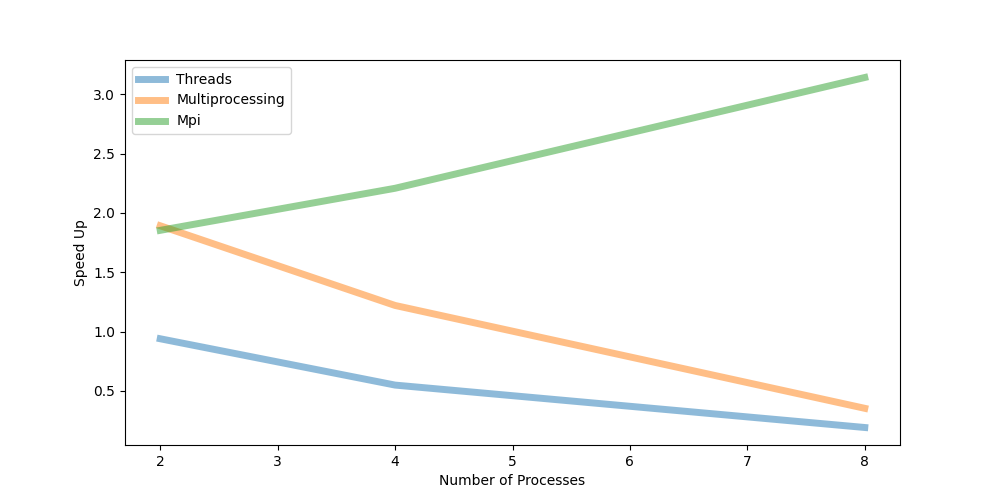
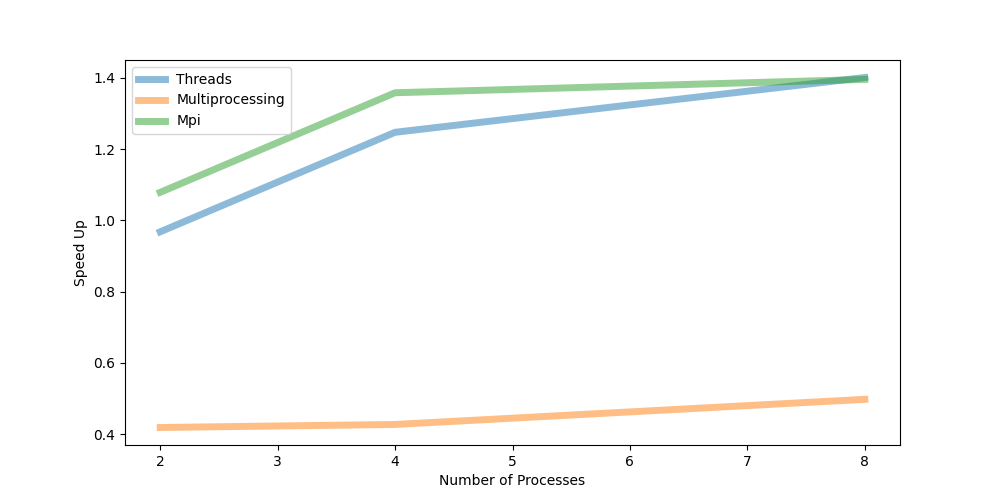
Se agregaron las graficas

diff --git a/pruebas.py b/pruebas.py
@@ -72,46 +72,46 @@ def choose_strategy(args, parser):
 
 
 def main():
-    parser = argparse.ArgumentParser(description="Script para ejecutar la aplicación")
-    args = parser.parse_args()
+    # parser = argparse.ArgumentParser(description="Script para ejecutar la aplicación")
+    # args = parser.parse_args()
 
-    for nombre_archivo in os.listdir('pruebas'):
-        os.remove(f"pruebas/{nombre_archivo}")
+    # for nombre_archivo in os.listdir('pruebas'):
+    #     os.remove(f"pruebas/{nombre_archivo}")
 
-    num_processes_list = [2, 4, 8, 10]
-    mpi_list = []
-    secuencial_list = []
-    paralelo_list = []
-    multiprocessing_list = []
+    # num_processes_list = [2, 4, 8, 10]
+    # mpi_list = []
+    # secuencial_list = []
+    # paralelo_list = []
+    # multiprocessing_list = []
 
-    for strategia in ["multiprocessing", "paralelo", "mpi"]:
-        args.estrategia = strategia
-        args.file1 = "E_coli.fna"
-        args.file2 = "Salmonella.fna"
-        args.output = "pruebas/pruebas"
-        args.outputNoFilter = "pruebas/pruebas_nf"
-        for num_processes in num_processes_list:
-            args.num_processes = num_processes
-            start_time = time.time()
-            choose_strategy(args, parser)
-            end_time = time.time()
-            if strategia == "mpi":
-                mpi_list.append(end_time - start_time)
-            elif strategia == "paralelo":
-                paralelo_list.append(end_time - start_time)
-            elif strategia == "multiprocessing":
-                multiprocessing_list.append(end_time - start_time)
+    # for strategia in ["multiprocessing", "paralelo", "mpi"]:
+    #     args.estrategia = strategia
+    #     args.file1 = "E_coli.fna"
+    #     args.file2 = "Salmonella.fna"
+    #     args.output = "pruebas/pruebas"
+    #     args.outputNoFilter = "pruebas/pruebas_nf"
+    #     for num_processes in num_processes_list:
+    #         args.num_processes = num_processes
+    #         start_time = time.time()
+    #         choose_strategy(args, parser)
+    #         end_time = time.time()
+    #         if strategia == "mpi":
+    #             mpi_list.append(end_time - start_time)
+    #         elif strategia == "paralelo":
+    #             paralelo_list.append(end_time - start_time)
+    #         elif strategia == "multiprocessing":
+    #             multiprocessing_list.append(end_time - start_time)
 
-    # Tiempo secuencial
-    args.estrategia = "secuencial"
-    args.file1 = "E_coli.fna"
-    args.file2 = "Salmonella.fna"
-    args.output = "pruebas/pruebas"
-    args.outputNoFilter = "pruebas/pruebas_nf"
-    start_time = time.time()
-    choose_strategy(args, parser)
-    end_time = time.time()
-    secuencial_list.append(end_time - start_time)
+    # # Tiempo secuencial
+    # args.estrategia = "secuencial"
+    # args.file1 = "E_coli.fna"
+    # args.file2 = "Salmonella.fna"
+    # args.output = "pruebas/pruebas"
+    # args.outputNoFilter = "pruebas/pruebas_nf"
+    # start_time = time.time()
+    # choose_strategy(args, parser)
+    # end_time = time.time()
+    # secuencial_list.append(end_time - start_time)
 
     # # Lee los archivos csv de una carpeta
 
@@ -161,6 +161,33 @@ def main():
     tiempo_hilos_t = data_hilos["total_time"]
     tiempo_multi_t = data_multi["total_time"]
     tiempo_mpi_t = data_mpi["total_time"]
+
+    s_scalability_t = [tiempo_hilos_t[i] for i in range(len(tiempo_hilos_t))]
+    s_scalability_mul = [tiempo_multi_t[i] for i in range(len(tiempo_multi_t))]
+    s_scalability_mpi = [tiempo_mpi_t[i] for i in range(len(tiempo_mpi_t))]
+
+    s_scalability_t.insert(0, tiempo_secuencial_t[0])
+    s_scalability_mul.insert(0, tiempo_secuencial_t[0])
+    s_scalability_mpi.insert(0, tiempo_secuencial_t[0])
+
+    num_processes = [1,2,4,8]
+    plt.title("Strong scalability vs Number of Processes")
+    ax = plt.figure(figsize=(10,5)).add_subplot(111)
+    ax.plot(num_processes, s_scalability_t, linewidth=5, alpha=0.5, label="Threads")
+    ax.plot(num_processes, s_scalability_mul, linewidth=5, alpha=0.5, label="Multiprocessing")
+    ax.plot(num_processes, s_scalability_mpi, linewidth=5, alpha=0.5, label="Mpi")
+
+    ax.set_xlabel("Number of Processes")
+    ax.set_ylabel("Scalability")
+    ax.legend()
+    plt.savefig("pruebas/strong-scalability.png")
+
+
+
+    tiempo_secuencial_t = data_secuencial["secuential_time"]
+    tiempo_hilos_t = data_hilos["parallel_time"]
+    tiempo_multi_t = data_multi["parallel_time"]
+    tiempo_mpi_t = data_mpi["parallel_time"]
 
     s_scalability_t = [tiempo_hilos_t[i] for i in range(len(tiempo_hilos_t))]
     s_scalability_mul = [tiempo_multi_t[i] for i in range(len(tiempo_multi_t))]

diff --git a/src/threads.py b/src/threads.py
@@ -20,10 +20,10 @@ def aplicar_filtro_seccion(args):
 
     # Sección con espacio para superposición
     seccion_ampliada = pixels[max(inicio-1, 0):fin+1, :]
-     
+
     # Aplicar convolución usando el kernel
     bordes_seccion = convolve(seccion_ampliada, kernel_y, mode='constant', cval=0.0)
-    
+
     # Recortar los bordes para mantener el resultado dentro de los límites originales
     bordes_seccion = np.clip(bordes_seccion, 0, 255).astype(np.uint8)
     bordes_seccion = bordes_seccion[inicio > 0:-1 if fin != pixels.shape[0] else None, :]
@@ -76,12 +76,12 @@ def dotplot_paralelo(seq1, seq2, num_processes):
 #         for fila in dotplot:
 #             f.write(' '.join(map(str, fila)) + '\n')
 
-    
+
 def guardar_dotplot_imagen(dotplot, file_output):
     # Asumiendo que dotplot ya es de tipo np.uint8
     img = Image.fromarray(dotplot.T * 255, 'L')  # 'L' para escala de grises
     img.save(file_output)
-    
+
 
 def main():
     parser = argparse.ArgumentParser(description='Dotplot paralelo')
@@ -103,8 +103,8 @@ def main():
     data_load_start = start_time
 
     # Cargar secuencias desde archivos FASTA
-    seq1 = [record.seq[:16000] for record in SeqIO.parse("data/" + args.file1, 'fasta')][0]
-    seq2 = [record.seq[:16000] for record in SeqIO.parse("data/" + args.file2, 'fasta')][0]
+    seq1 = [record.seq[:6000] for record in SeqIO.parse("data/" + args.file1, 'fasta')][0]
+    seq2 = [record.seq[:6000] for record in SeqIO.parse("data/" + args.file2, 'fasta')][0]
 
     data_load_end = time.time()
     data_load_time = data_load_end - data_load_start
@@ -145,10 +145,11 @@ def main():
     total_time = end_time - start_time
 
     # Abre un archivo CSV en modo escritura
-    with open('pruebas/hilos.csv', mode='w', newline='') as file:
+    with open('pruebas/hilos.csv', mode='a', newline='') as file:
         writer = csv.writer(file)
-        # Escribe los tiempos en el archivo CSV
-        writer.writerow(['total_time', 'parallel_time', 'data_load_time', 'convolution_time', 'save_time'])
+        if args.num_processes == 2:
+            # Escribe los tiempos en el archivo CSV
+            writer.writerow(['total_time', 'parallel_time', 'data_load_time', 'convolution_time', 'save_time'])
         writer.writerow([total_time, parallel_time, data_load_time, convolution_time, save_time])
 
 

diff --git a/src/secuencial.py b/src/secuencial.py
@@ -19,10 +19,10 @@ def aplicar_filtro_seccion(args):
 
     # Sección con espacio para superposición
     seccion_ampliada = pixels[max(inicio-1, 0):fin+1, :]
-     
+
     # Aplicar convolución usando el kernel
     bordes_seccion = convolve(seccion_ampliada, kernel_y, mode='constant', cval=0.0)
-    
+
     # Recortar los bordes para mantener el resultado dentro de los límites originales
     bordes_seccion = np.clip(bordes_seccion, 0, 255).astype(np.uint8)
     bordes_seccion = bordes_seccion[inicio > 0:-1 if fin != pixels.shape[0] else None, :]
@@ -64,12 +64,12 @@ def guardar_dotplot_txt(dotplot, file_output):
         for fila in dotplot:
             f.write(' '.join(map(str, fila)) + '\n')
 
-    
+
 def guardar_dotplot_imagen(dotplot, file_output):
     # Asumiendo que dotplot ya es de tipo np.uint8
     img = Image.fromarray(dotplot.T * 255, 'L')  # 'L' para escala de grises
     img.save(file_output)
-    
+
 
 def main():
     parser = argparse.ArgumentParser(description='Dotplot secuencial')
@@ -90,8 +90,8 @@ def main():
     data_load_start = start_time
 
     # Cargar secuencias desde archivos FASTA
-    seq1 = [record.seq[:20000] for record in SeqIO.parse("data/" + args.file1, 'fasta')][0]
-    seq2 = [record.seq[:20000] for record in SeqIO.parse("data/" + args.file2, 'fasta')][0]
+    seq1 = [record.seq[:6000] for record in SeqIO.parse("data/" + args.file1, 'fasta')][0]
+    seq2 = [record.seq[:6000] for record in SeqIO.parse("data/" + args.file2, 'fasta')][0]
 
     data_load_end = time.time()
     data_load_time = data_load_end - data_load_start
@@ -114,13 +114,13 @@ def main():
     save_start = time.time()
 
     # Guardar dotplot en archivo de texto
-    guardar_dotplot_txt(dotplot, args.output_txt_no_f)
+    # guardar_dotplot_txt(dotplot, args.output_txt_no_f)
 
-    # Guardar dotplot como imagen
-    guardar_dotplot_imagen(dotplot, args.output_img_no_f)
+    # # Guardar dotplot como imagen
+    # guardar_dotplot_imagen(dotplot, args.output_img_no_f)
 
-    # Guardar dotplot en archivo de texto
-    guardar_dotplot_txt(dotplot_diagonal, args.output_txt)
+    # # Guardar dotplot en archivo de texto
+    # guardar_dotplot_txt(dotplot_diagonal, args.output_txt)
 
     # Guardar dotplot como imagen
     guardar_dotplot_imagen(dotplot_diagonal, args.output_img)

diff --git a/src/multiprocessing_version.py b/src/multiprocessing_version.py
@@ -20,10 +20,10 @@ def aplicar_filtro_seccion(args):
 
     # Sección con espacio para superposición
     seccion_ampliada = pixels[max(inicio-1, 0):fin+1, :]
-     
+
     # Aplicar convolución usando el kernel
     bordes_seccion = convolve(seccion_ampliada, kernel_y, mode='constant', cval=0.0)
-    
+
     # Recortar los bordes para mantener el resultado dentro de los límites originales
     bordes_seccion = np.clip(bordes_seccion, 0, 255).astype(np.uint8)
     bordes_seccion = bordes_seccion[inicio > 0:-1 if fin != pixels.shape[0] else None, :]
@@ -58,15 +58,15 @@ def calcular_seccion_dotplot(args):
 def dotplot_multiprocessing(seq1, seq2, num_procesos):
     seq1_array = np.array(list(seq1))
     seq2_array = np.array(list(seq2))
-    
+
     seccion_alto = len(seq1_array) // num_procesos
     secciones = [seq1_array[i*seccion_alto:(i+1)*seccion_alto] for i in range(num_procesos)]
     if len(seq1_array) % num_procesos != 0:
         secciones.append(seq1_array[num_procesos*seccion_alto:])
-    
+
     with Pool(num_procesos) as pool:
         dotplot_sections = pool.map(calcular_seccion_dotplot, [(seccion, seq2_array) for seccion in secciones])
-    
+
     dotplot = np.vstack(dotplot_sections)
     return dotplot
 
@@ -79,7 +79,7 @@ def guardar_dotplot_imagen(dotplot, file_output):
     # Asumiendo que dotplot ya es de tipo np.uint8
     img = Image.fromarray(dotplot.T * 255, 'L')  # 'L' para escala de grises
     img.save(file_output)
-    
+
 def main():
 
     start_time = time.time()
@@ -130,8 +130,10 @@ def main():
 
     with open(f'pruebas/multi.csv', mode='a', newline='') as file:
         writer = csv.writer(file)
-        writer.writerow(['total_time','parallel_time', 'data_load_time', 'convolution_time', 'save_time', 'num_processes'])
+        if args.num_processes == 2:
+            writer.writerow(['total_time','parallel_time', 'data_load_time', 'convolution_time', 'save_time', 'num_processes'])
         # Escribe los tiempos en el archivo CSV junto con la cantidad de procesos
         writer.writerow([total_time,parallel_time, data_load_time, convolution_time, save_time, args.num_processes])
+
 if __name__ == '__main__':
     main()
